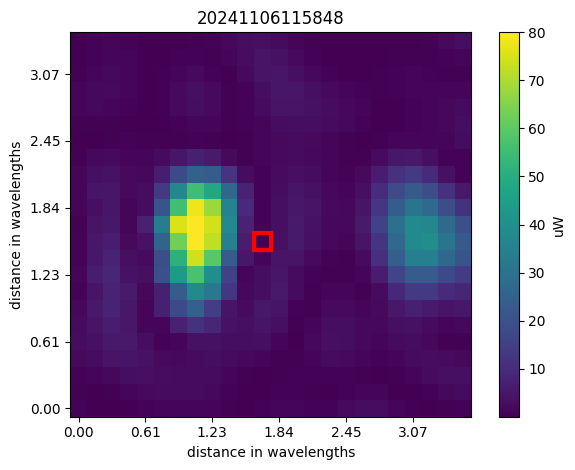
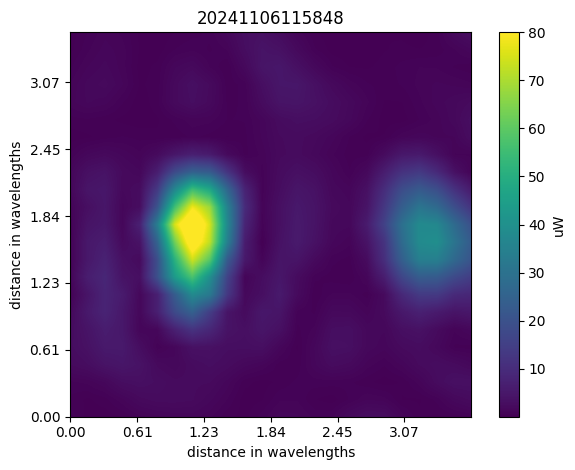
update plots

diff --git a/02_reciprocity_based_WPT/processing/plot_2d.py b/02_reciprocity_based_WPT/processing/plot_2d.py
@@ -45,7 +45,7 @@ for i, tp in enumerate(to_plot):
                 x_bf = i_x
                 y_bf = i_y
 
-    zoom_val = 1
+    zoom_val = 100
 
     fig, ax = plt.subplots()
     plt.title(tp)

diff --git a/03_geometry_based_beamforming/031_Friis/processing/plot_2d.py b/03_geometry_based_beamforming/031_Friis/processing/plot_2d.py
@@ -47,7 +47,7 @@ for i, tp in enumerate(to_plot):
                 x_bf = i_x
                 y_bf = i_y
 
-    zoom_val = 1
+    zoom_val = 100
 
     fig, ax = plt.subplots()
     plt.title(tp)
